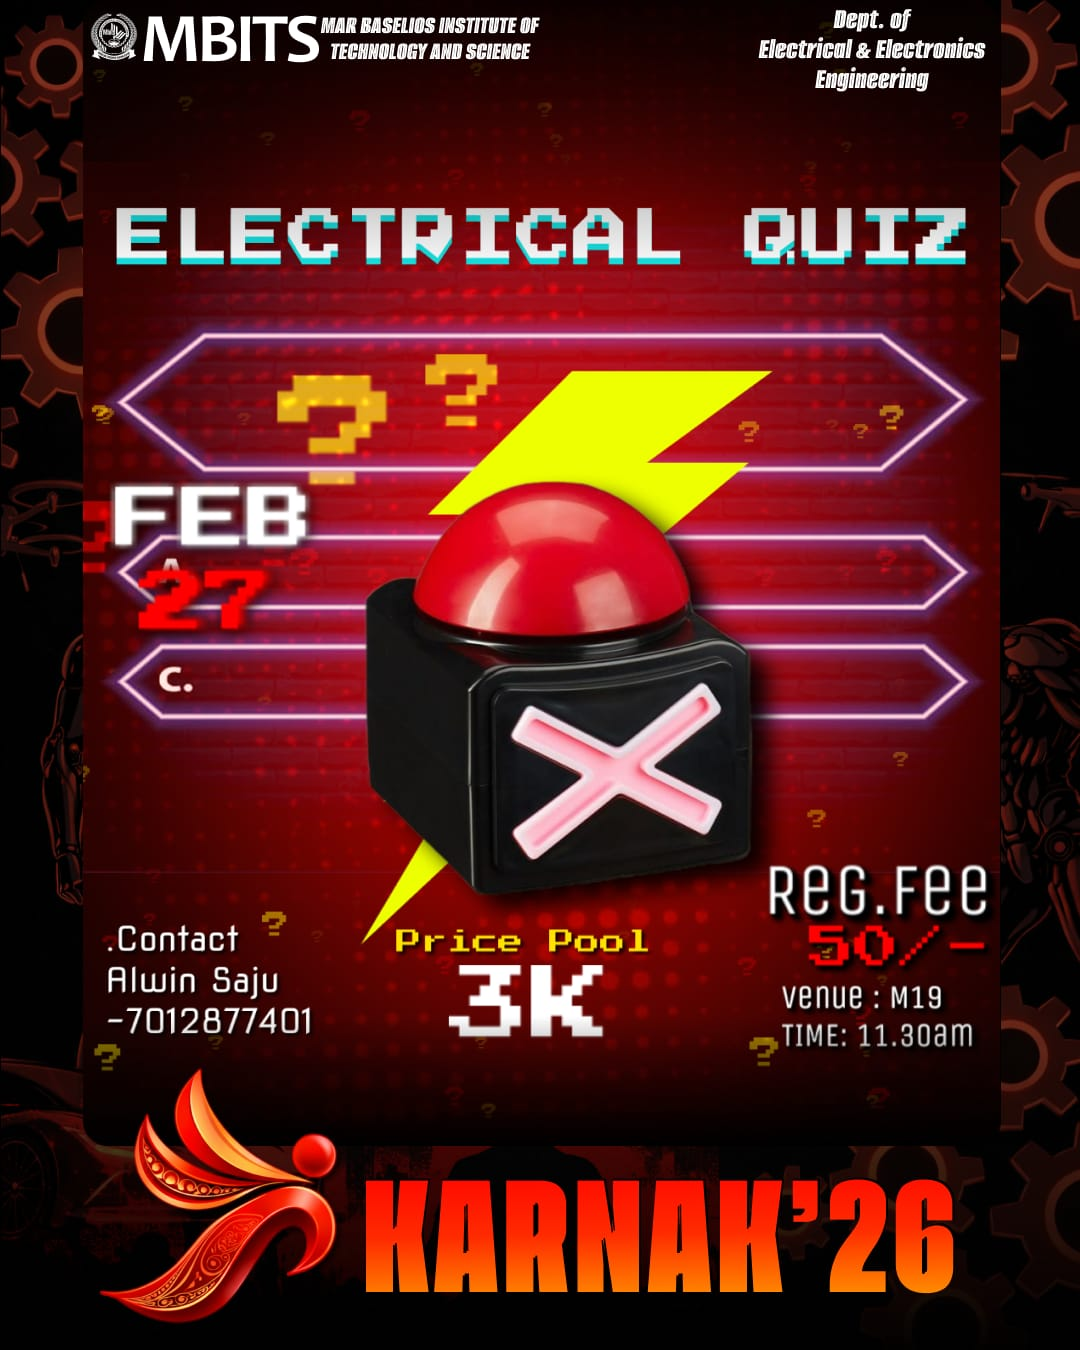
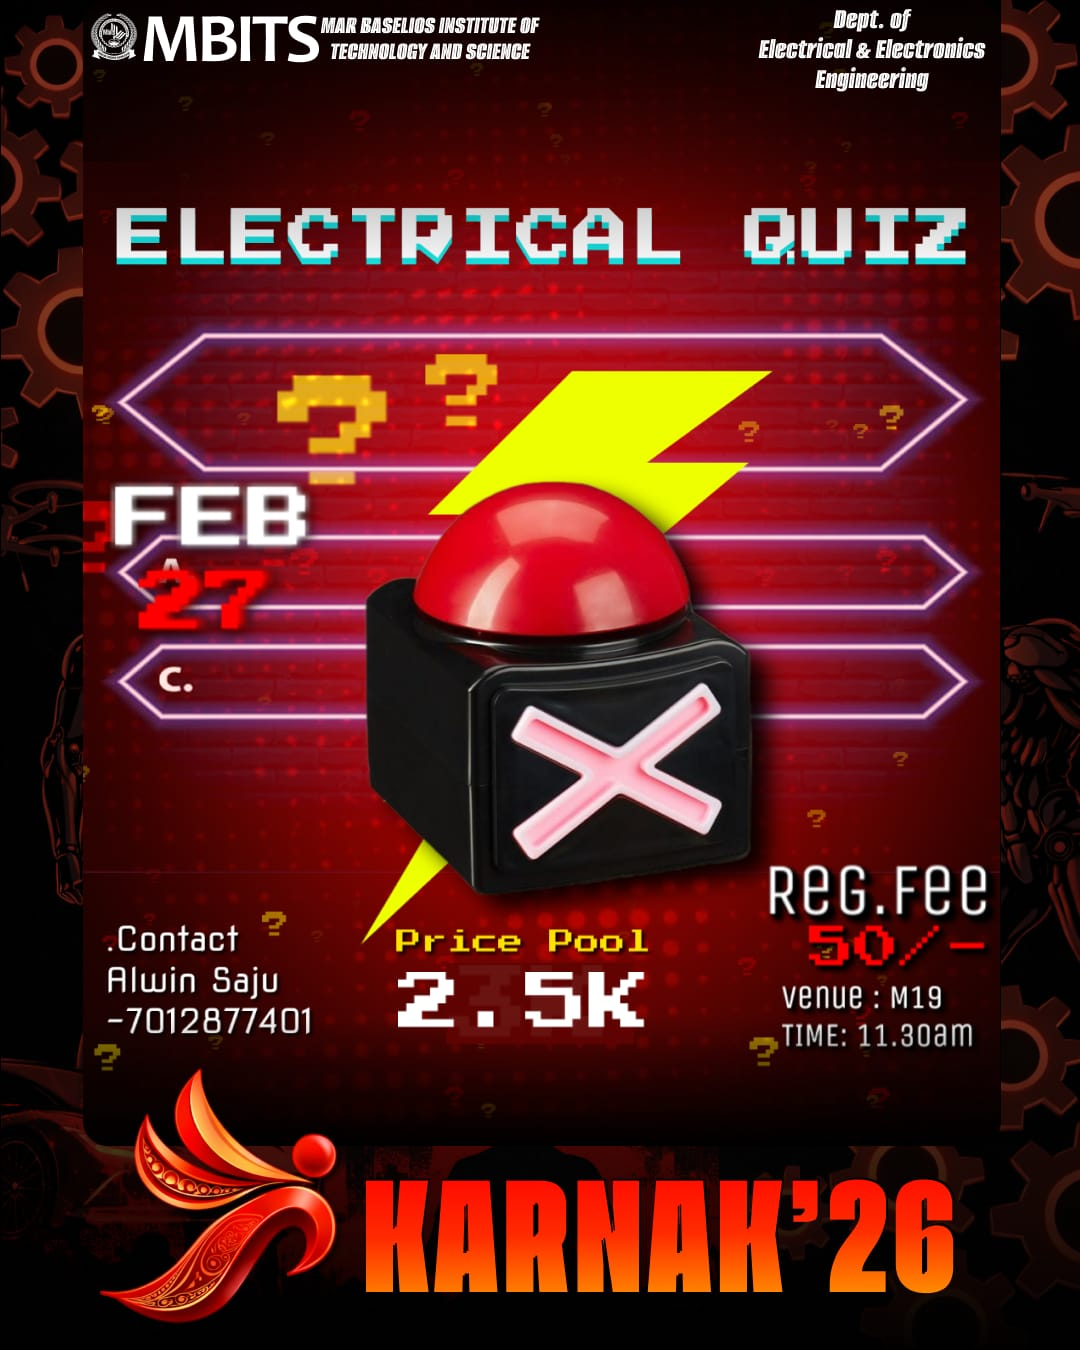
addedss

Changed region(s): [[0.3667, 0.7156, 0.6111, 0.7778]]

diff --git a/src/app/pages/DepartmentEventsPage.tsx b/src/app/pages/DepartmentEventsPage.tsx
@@ -379,7 +379,7 @@ const departmentEvents: Record<string, any> = {
         date: 'February 27-28, 2026',
         time: 'FULL DAY',
         fee: 'FREE',
-        venue: 'CSE Block Corridors',
+        venue: 'Room M232',
         image: '/depfolds/comps/minigames.jpeg',
         registrationUrl: 'https://t4.ftcdn.net/jpg/17/77/94/27/360_F_1777942761_UTY0WxIs5of7FgsgrkLmzqFdCapwHHgN.jpg',
         registerOption: 2,
@@ -913,10 +913,10 @@ const departmentEvents: Record<string, any> = {
         id: 3,
         name: 'CAD LAB WORKSHOP',
         description: 'In celebration of Karnak26 , the Department of Electrical & Electronics Engineering presents the CAD Lab Workshop, an interactive session focused on design innovation, practical modeling, and developing essential technical skills in computer-aided design.\n\n🔖 Certificates are provided\n\n 💢Sketch,Model,Create. Join the CAD Lab Workshop and shape your ideas ! ',
-        date: 'February 27, 2026',
+        date: 'February 28, 2026',
         time: '10:00 AM',
         fee: '50',
-        venue: 'Lab 1',
+        venue: 'Lab 5',
         badge: 2,
         image: '/depfolds/eee/cad.jpeg',
         registrationUrl: 'https://makemypass.com/event/eee-cad-workshop',
@@ -930,7 +930,7 @@ const departmentEvents: Record<string, any> = {
         date: 'February 28, 2026',
         time: '11:30 AM',
         fee: '100(for a team of 2 )',
-        venue: 'M19',
+        venue: 'Room M19',
         prizepool:'2500',
         badge: 3,
         image: '/depfolds/eee/quiz.jpeg',
